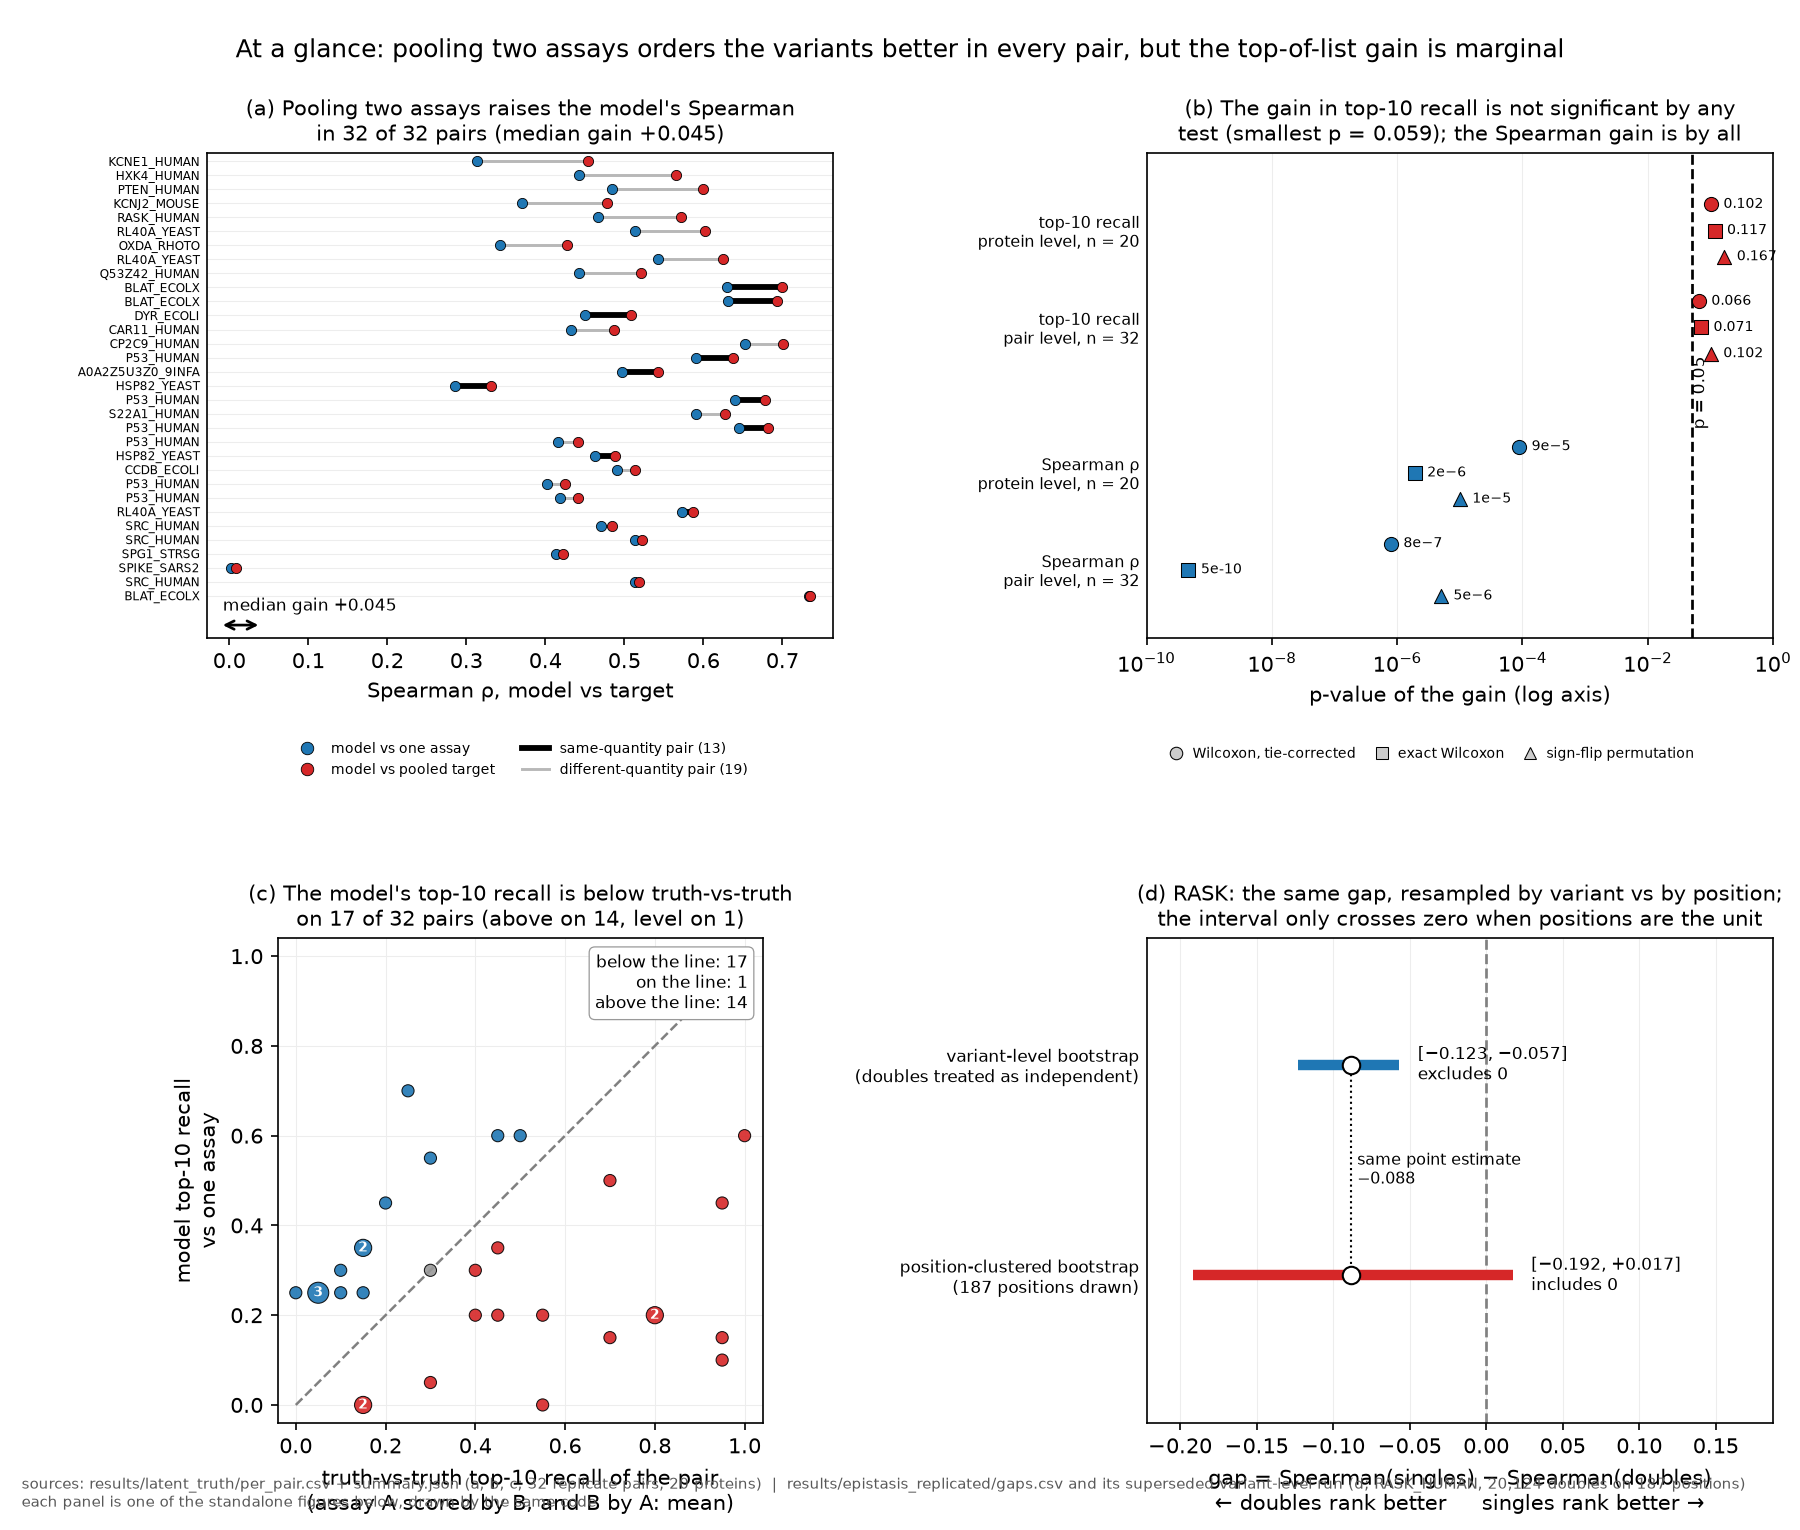
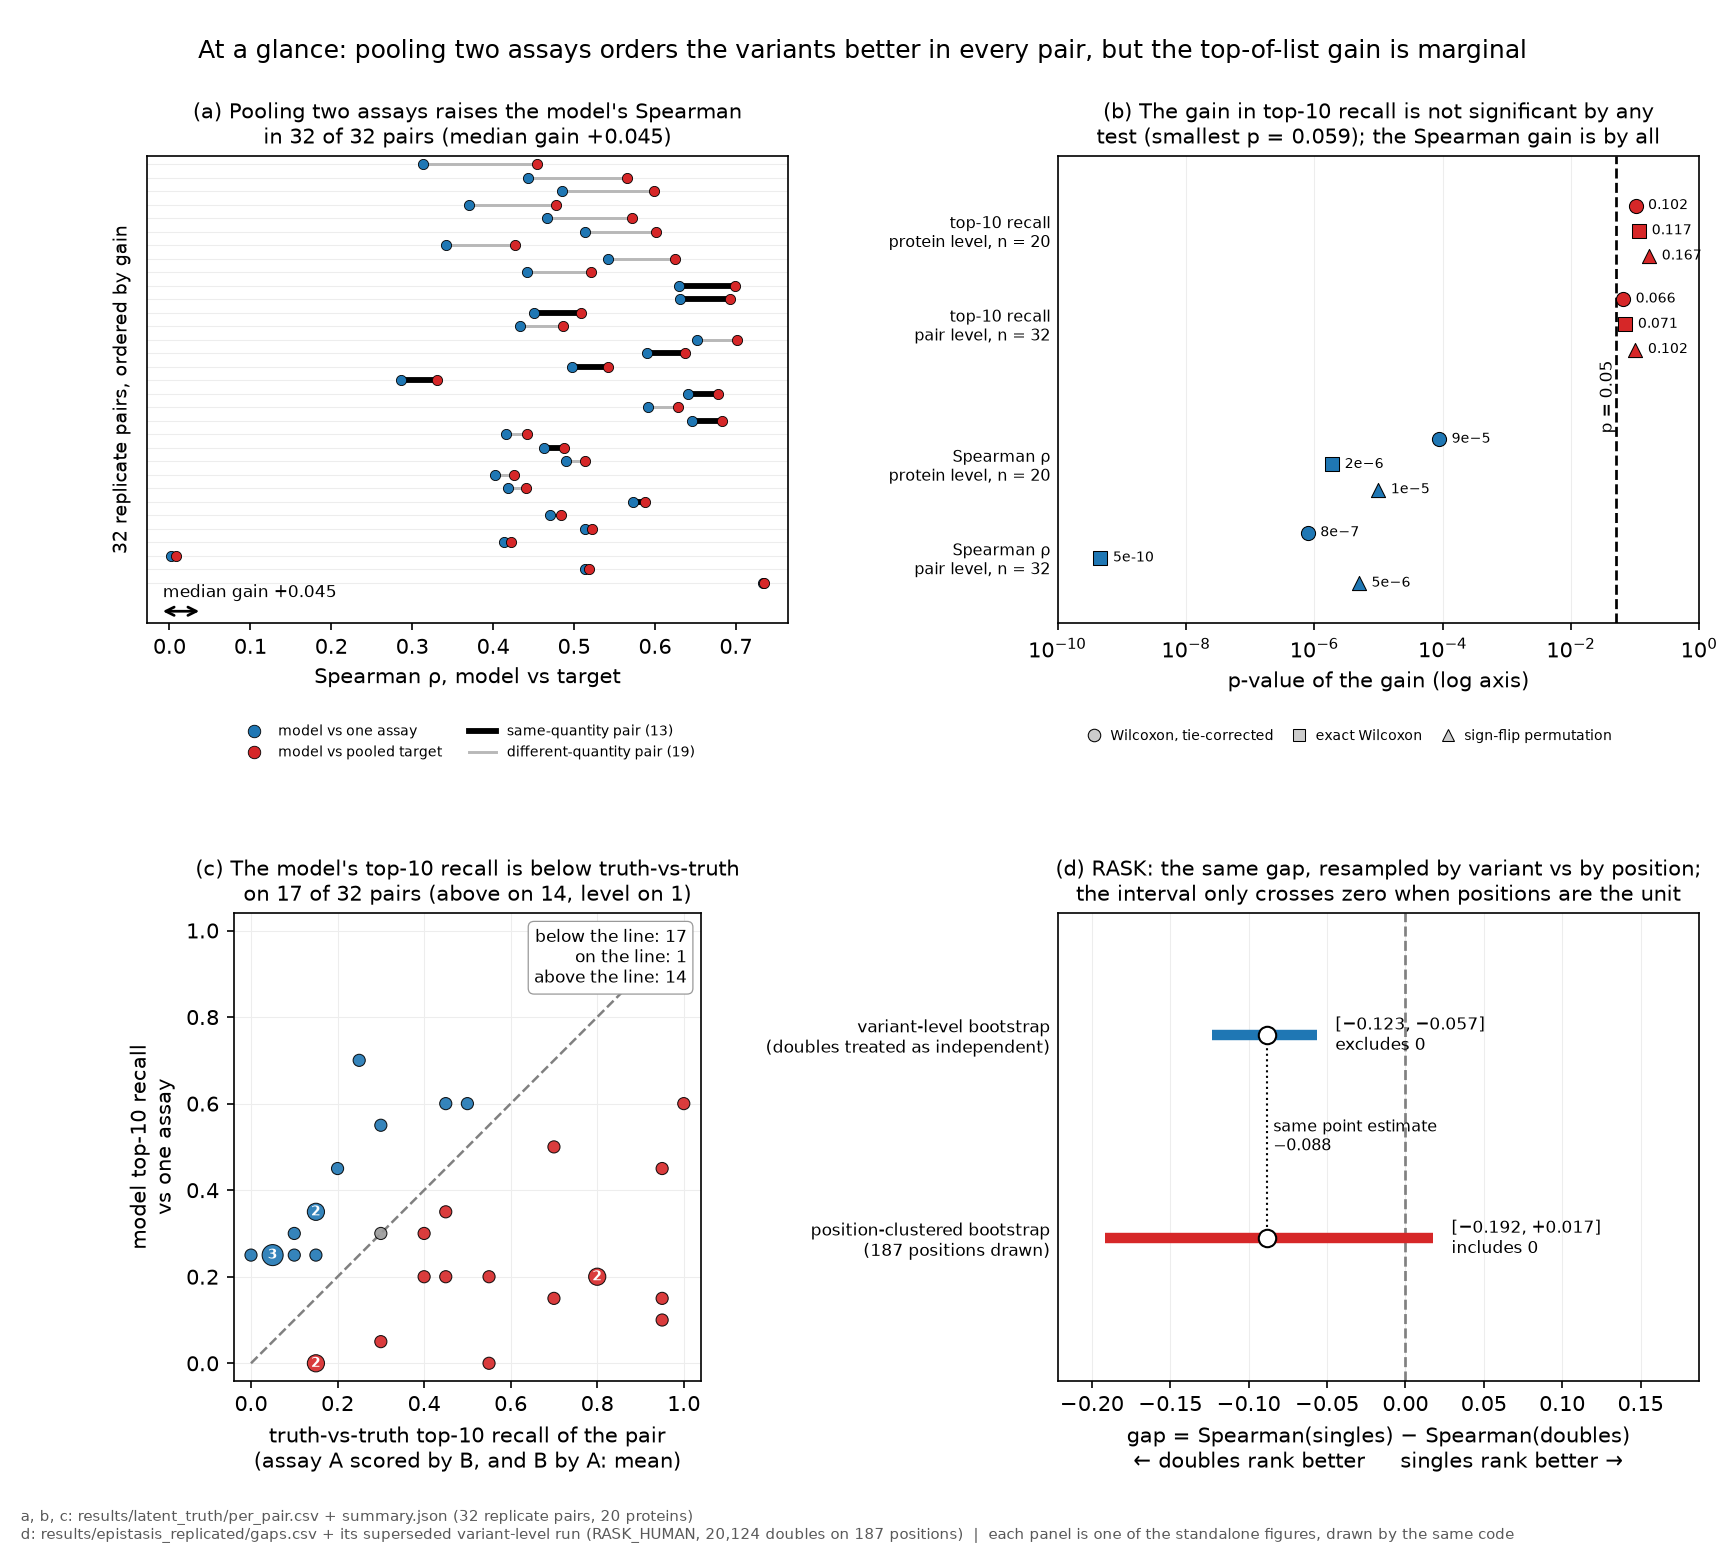
fix(figures): at-a-glance panel layout; _save prints paths outside the repo
Re-rendered figures/at_a_glance.png (no protein labels in the compact dumbbell,
p = 0.05 label moved into the gap between the two metrics, room for the source
note). _save no longer assumes the output directory is under the repo root, so
the figure tests can write to a temp directory.

diff --git a/scripts/make_figures.py b/scripts/make_figures.py
@@ -233,7 +233,7 @@ def _save(fig, name):
     out = FIG / name
     fig.savefig(out, dpi=150)
     plt.close(fig)
-    print(f"wrote {out.relative_to(ROOT)}")
+    print("wrote", out.relative_to(ROOT) if out.is_relative_to(ROOT) else out)
 
 
 # ---- a) the pooled target raises the model's rank correlation --------------
